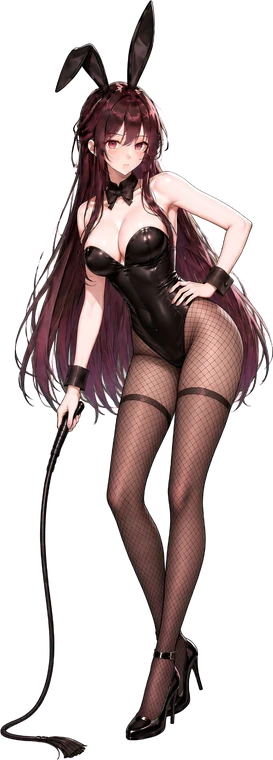
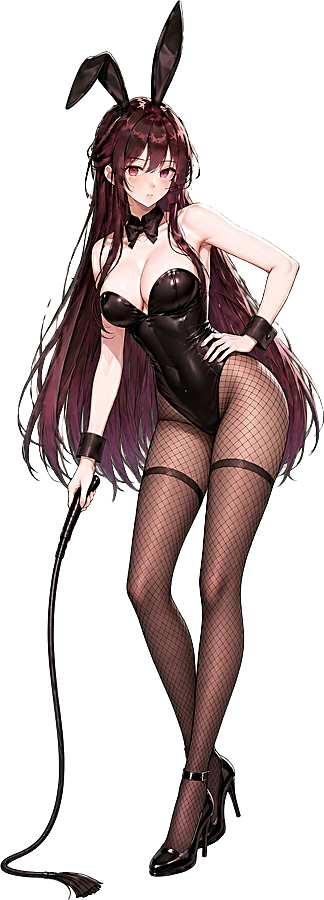
격투: 바니걸 소영 — 선택 화면 그림 크기 · 위치를 기본 소영에 맞춤, 전신 그림 선명하게(해상도 · 윤곽), 상점 미리보기 뒤 미드나잇 바니 오라 · 그림 가운데로
Claude-Session: https://claude.ai/code/session_01Q2UB7i4vqxayb5flgw9kqa

diff --git a/web/src/components/Fight/Select.tsx b/web/src/components/Fight/Select.tsx
@@ -46,7 +46,9 @@ const MODES = MODE_TILES.map(([m]) => m);
 const face = (c: CharDef) => `/fight/art/${c.id}-face.webp`;
 const art = (c: CharDef) => `/fight/art/${c.id}.webp`;
 /** 선택 화면 전신 그림 배율 (그림마다 인물이 차지하는 크기가 달라서 — 발 위치는 그대로) */
-const ART_SCALE: Record<string, number> = { soyoung: 0.86 };
+const ART_SCALE: Record<string, number> = { soyoung: 0.86, "soyoung-bunny": 0.96 };
+/** 스킨 전신 그림이 기본보다 폭이 좁아 한쪽으로 쏠릴 때 안쪽으로 미는 양 (cqw) */
+const ART_DX: Record<string, number> = { "soyoung-bunny": 3.2 };
 const PX = "[image-rendering:pixelated]";
 /** 캐릭터 고르기 칸: 한 줄에 몇 칸 (↑↓ 은 이만큼 건너뜀) */
 const FACE_COLS = 4;
@@ -488,6 +490,8 @@ export default function Select({
     // eslint-disable-next-line react-hooks/exhaustive-deps -- 최신 값은 stRef로
   }, [ai]);
 
+  /** 그림 이름: 1P 는 착용 스킨, 상대는 기본 */
+  const lookOf = (sd: number) => (sd === 0 ? look(setup.c1, wornSkin(setup.c1)) : CHARS[c2i].id);
   const c1 = CHARS[setup.c1],
     c2 = CHARS[c2i];
   const side = pickSide(lock);
@@ -696,14 +700,15 @@ export default function Select({
                   </div>
                 ) : (
                 <img
-                  key={sd === 0 ? look(setup.c1, wornSkin(setup.c1)) : c.id}
+                  key={lookOf(sd)}
                   src={sd === 0 ? artUrl(setup.c1, wornSkin(setup.c1)) : art(c)}
                   alt={c.name}
                   className={`absolute top-[13%] ${sd === 0 ? "left-[1cqw] object-left-bottom" : "right-[1cqw] object-right-bottom"} z-0 h-[76%] w-[26cqw] object-contain ${PX} transition-[filter,opacity] duration-300 [animation:modal-fade_250ms_ease-out] ${sd === 1 ? "scale-x-[-1]" : ""} ${
                     active || lock[sd] ? "" : "opacity-45 brightness-50"
                   }`}
                   style={{
-                    ...(ART_SCALE[c.id] ? { height: `${76 * ART_SCALE[c.id]}%`, top: `${89 - 76 * ART_SCALE[c.id]}%` } : {}),
+                    ...(ART_SCALE[lookOf(sd)] ? { height: `${76 * ART_SCALE[lookOf(sd)]}%`, top: `${89 - 76 * ART_SCALE[lookOf(sd)]}%` } : {}),
+                    ...(ART_DX[lookOf(sd)] ? { [sd === 0 ? "marginLeft" : "marginRight"]: `${ART_DX[lookOf(sd)]}cqw` } : {}),
                     filter: active
                       ? `drop-shadow(0 0 0.25cqw ${col}) drop-shadow(0 0 1.4cqw ${col})`
                       : lock[sd]

diff --git a/web/src/components/Fight/SkinShop.tsx b/web/src/components/Fight/SkinShop.tsx
@@ -21,6 +21,9 @@ const PX = "[image-rendering:pixelated]";
 
 export type ShopTab = "shop" | "inv";
 
+/** 상점 미리보기 캐릭터 뒤 오라 그림 (검정 배경 · 밝게 겹쳐 그림) */
+const AURA: Record<string, string> = { "soyoung-bunny": "/fight/shop/soyoung-bunny-aura.webp" };
+
 const chIndex = (s: FightSkin) => CHARS.findIndex((c) => c.id === s.ch);
 const gp = (n: number) => n.toLocaleString("ko-KR");
 
@@ -184,11 +187,20 @@ export default function SkinShop({ initial = "shop", onClose }: { initial?: Shop
               style={{ background: `radial-gradient(ellipse at 50% 30%, ${skin.color}55, #120820 70%)` }}
             >
               {skin.id === "igna-fw" && <FireworksBg color={skin.color} />}
+              {AURA[skin.id] && (
+                <img
+                  key={`aura-${skin.id}`}
+                  src={AURA[skin.id]}
+                  alt=""
+                  className="pointer-events-none absolute bottom-0 left-[38%] h-full -translate-x-1/2 object-contain object-bottom mix-blend-screen [animation:shop-aura_3.2s_ease-in-out_infinite_alternate]"
+                />
+              )}
+              <style>{`@keyframes shop-aura{from{opacity:.7;filter:brightness(.9)}to{opacity:1;filter:brightness(1.15)}}`}</style>
               <img
                 key={skin.id}
                 src={artUrl(chIndex(skin), skin.id)}
                 alt={skin.name}
-                className={`absolute bottom-0 left-[4%] h-[96%] object-contain object-bottom ${PX} [animation:modal-fade_300ms_ease-out]`}
+                className={`absolute bottom-0 left-[38%] h-[96%] -translate-x-1/2 object-contain object-bottom ${PX} [animation:modal-fade_300ms_ease-out]`}
               />
               <div className="absolute right-[3%] bottom-[4%] flex flex-col items-center rounded-[0.8cqw] bg-black/35 px-[0.6cqw] pt-[0.4cqw]">
                 <span className="font-mono text-[0.85cqw] tracking-widest text-white/50">IN GAME</span>
